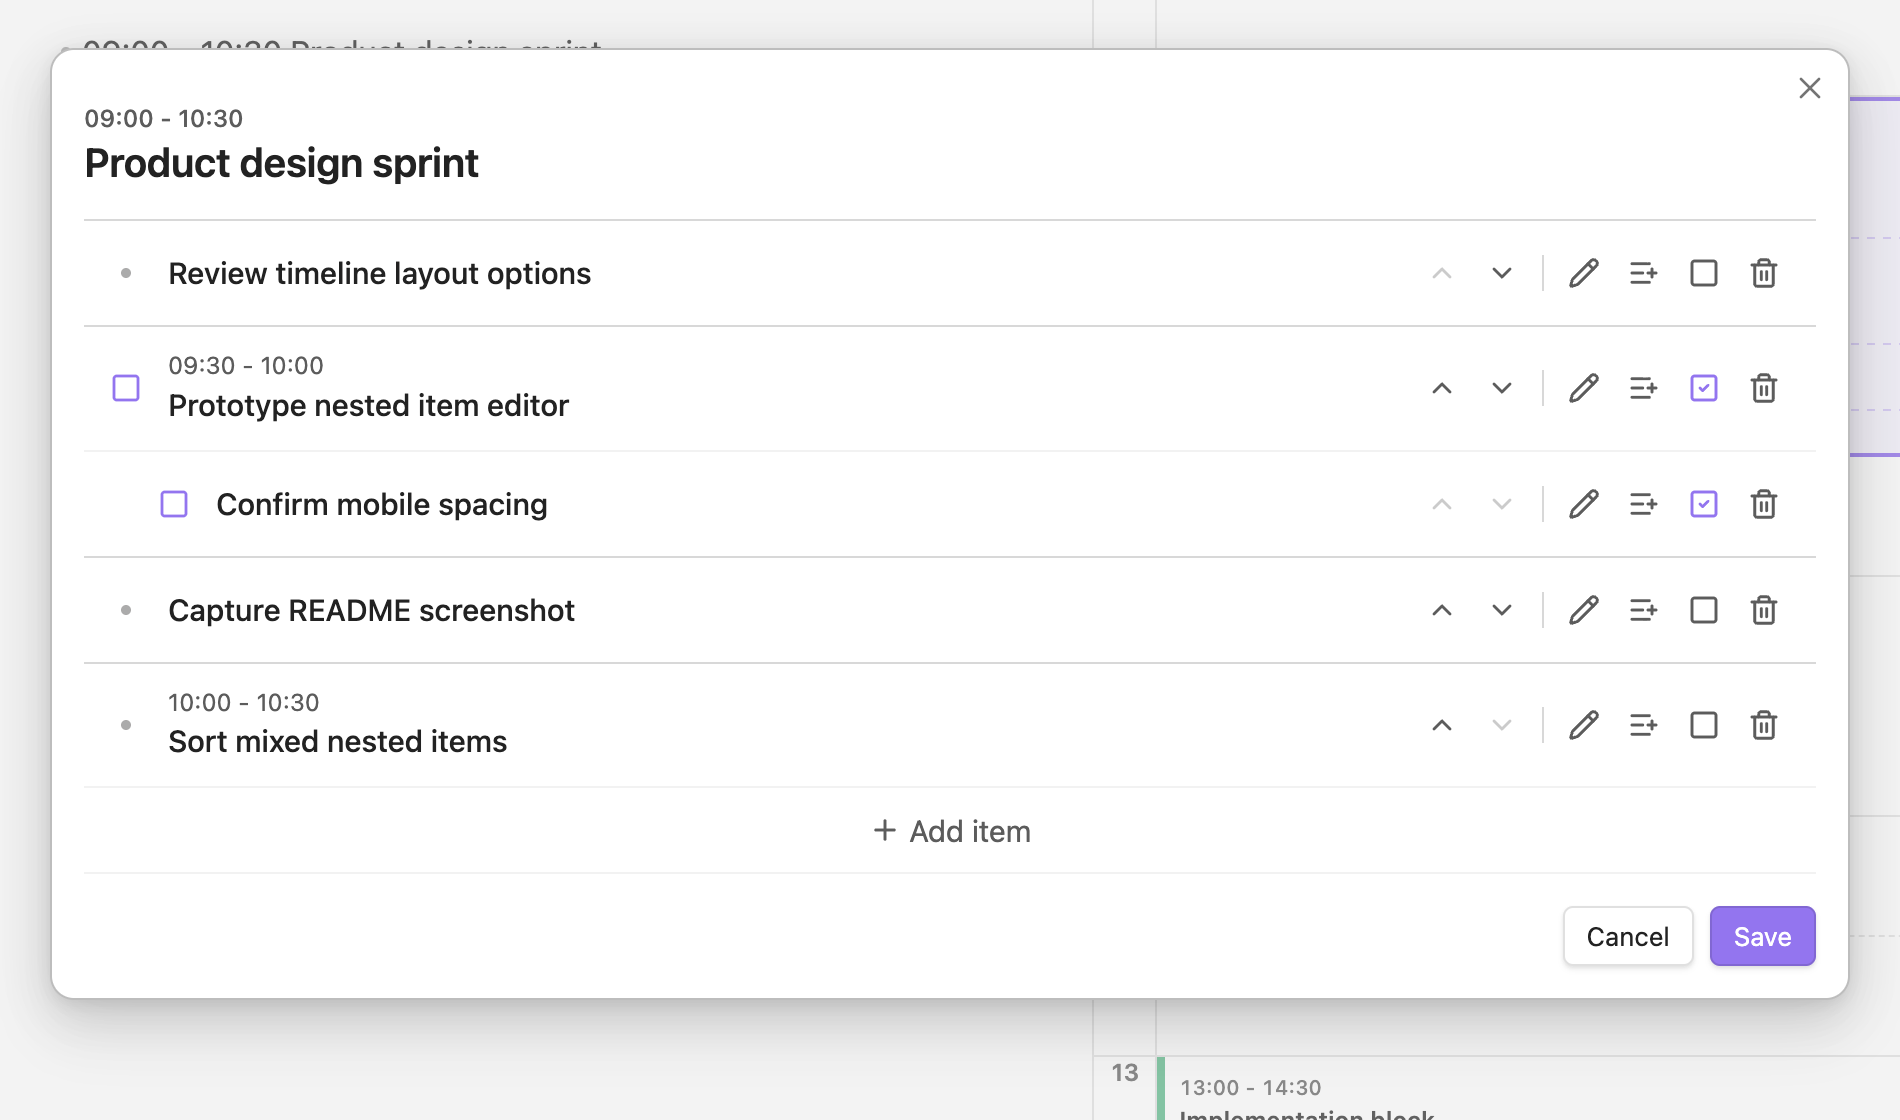
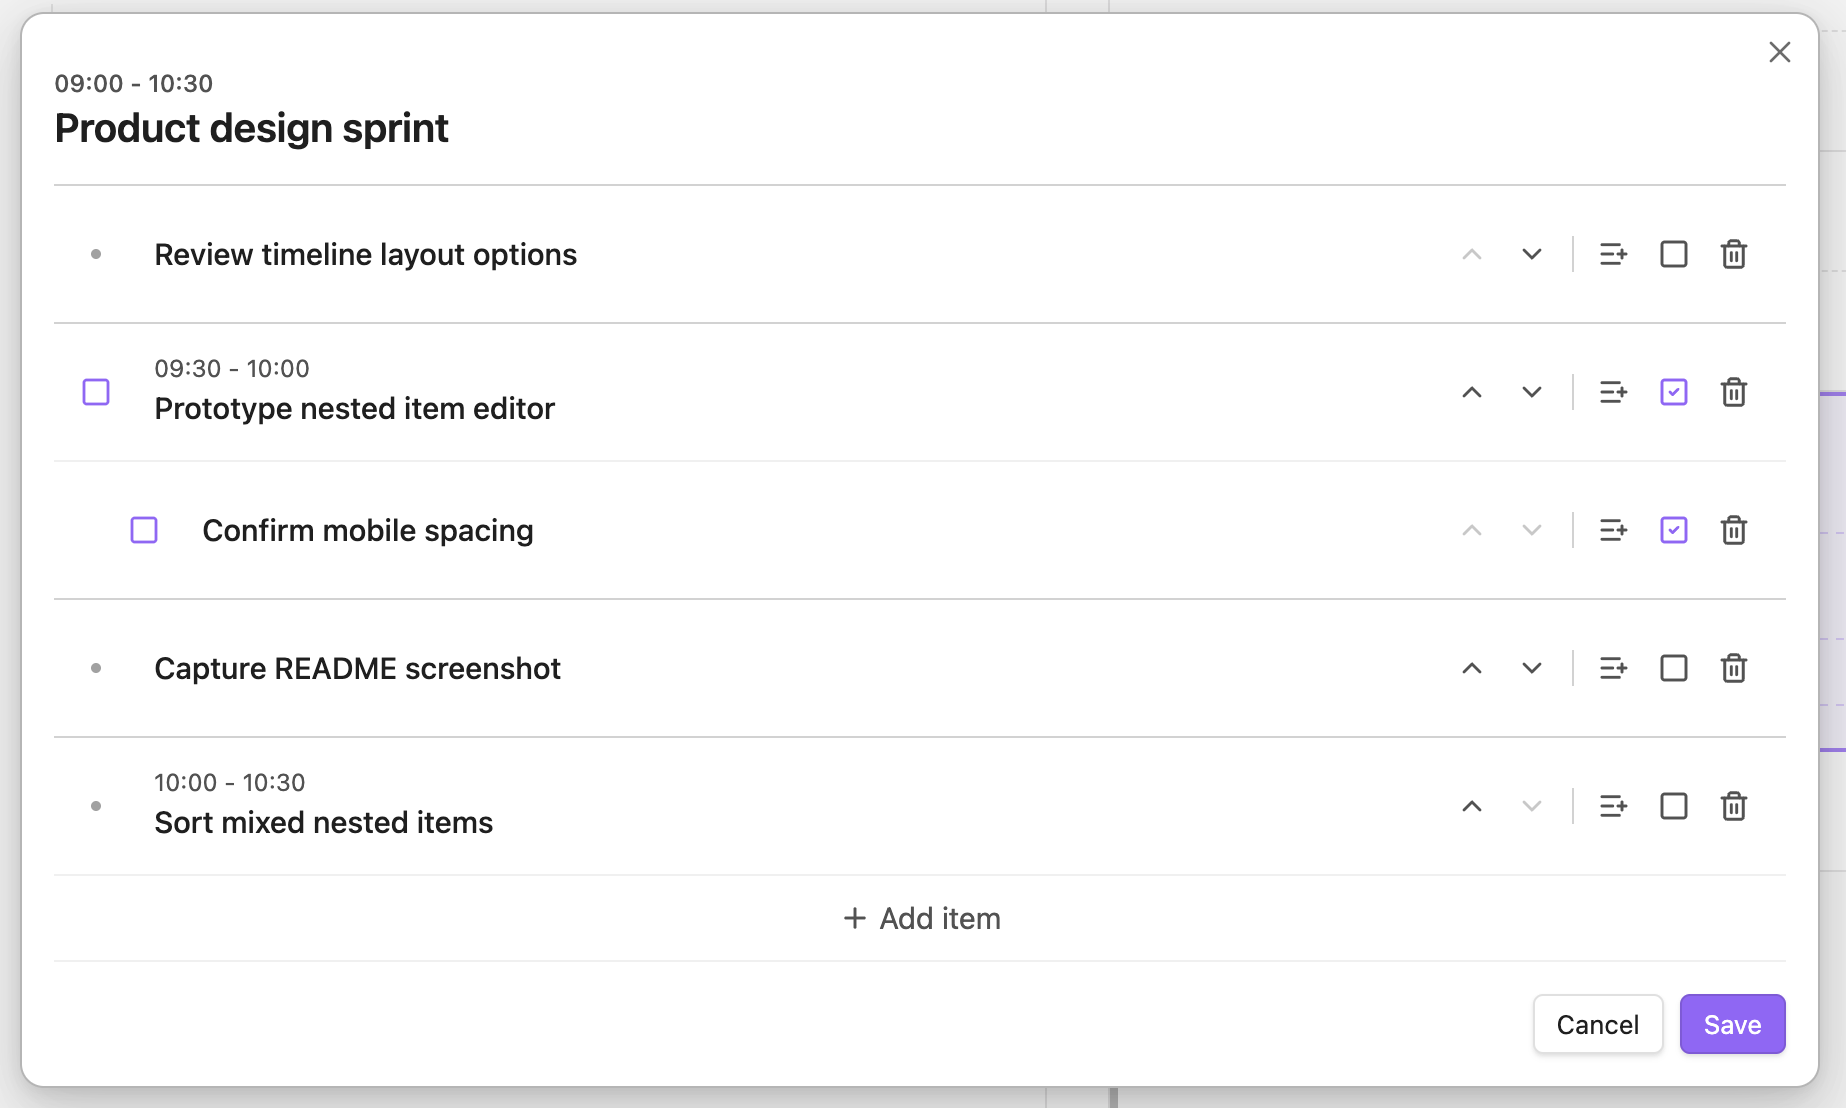
chore: prepare 0.2.3 release

diff --git a/README.md b/README.md
@@ -26,16 +26,24 @@ Right-click a timeline block to edit the parent item, reveal it in the source fi
 
 ### 3. Nested items can be managed without leaving the planner
 
-The nested item manager can add root items, add child items, edit text, move siblings, delete subtrees, convert bullets into checkbox tasks, and toggle completion. Saving replaces only the child subtree and keeps the parent planner line intact.
+The nested item manager can add root items, add child items, edit text by clicking the item body, move siblings, delete subtrees, convert bullets into checkbox tasks, and toggle completion. Saving replaces only the child subtree and keeps the parent planner line intact.
 
 <img src="./assets/nested-items-editor-demo.png" alt="Day Planner Enhanced nested items editor" width="100%">
 
 <p align="center"><em>Edit nested schedules as a small tree, then save the result back to the source markdown.</em></p>
 
-### 4. Smaller planning improvements
+### 4. Overnight plans continue across days
+
+Plans that cross midnight stay anchored to the day where they start while still appearing naturally in the next day's timeline. A `23:00 - 00:30` entry can remain in the start day's daily note instead of being split into separate notes.
+
+<img src="./assets/overnight-schedule-demo.png" alt="Overnight plan written in the start day's daily note and shown in the next day's timeline" width="100%">
+
+<p align="center"><em>Overnight plans continue into the next day's timeline while staying in the start day's note.</em></p>
+
+### 5. Smaller planning improvements
 
 - **Timed group sorting**: timed groups are ordered by time while untimed notes stay attached to the timed item they follow.
-- **Smoother timeline editing**: click-created blocks use the clicked time as their start, end-of-day moves save the visible `23:59` boundary, newly created blocks stay selected while you type, and auto-scroll waits while you are interacting with the planner.
+- **Smoother timeline editing**: click-created blocks use the clicked time as their start, move-block dragging follows the configured snap interval from the block's original position, end-of-day moves save the visible `23:59` boundary, newly created blocks stay selected while you type, and auto-scroll waits while you are interacting with the planner.
 - **Undo-friendly removal**: timeline block removal is immediate from the context menu and still uses the undoable edit path.
 - **Theme-aware UI polish**: nested dividers, dots, time ranges, mobile controls, and checkbox colors are tuned for scanning and Obsidian themes.
 - **Separate plugin identity**: installs as `day-planner-enhanced`, so it can live separately from the original Day Planner plugin.
@@ -56,13 +64,15 @@ Day Planner Enhanced is integrated with
   - [1. Nested schedules stay grouped in the timeline](#1-nested-schedules-stay-grouped-in-the-timeline)
   - [2. Timeline actions include nested editing and removal](#2-timeline-actions-include-nested-editing-and-removal)
   - [3. Nested items can be managed without leaving the planner](#3-nested-items-can-be-managed-without-leaving-the-planner)
-  - [4. Smaller planning improvements](#4-smaller-planning-improvements)
+  - [4. Overnight plans continue across days](#4-overnight-plans-continue-across-days)
+  - [5. Smaller planning improvements](#5-smaller-planning-improvements)
 - [Installation](#installation)
   - [Install from Obsidian](#install-from-obsidian)
   - [Manual installation fallback](#manual-installation-fallback)
   - [Updating](#updating)
 - [How to use it](#how-to-use-it)
   - [1. Showing events from your daily notes](#1-showing-events-from-your-daily-notes)
+    - [Overnight plans](#overnight-plans)
     - [Editing nested items](#editing-nested-items)
   - [2. tasks community plugin integration, showing events from other files in your vault](#2-tasks-community-plugin-integration-showing-events-from-other-files-in-your-vault)
   - [3. Showing internet calendars](#3-showing-internet-calendars)
@@ -159,9 +169,13 @@ Write your tasks in a daily note, and they show up on the timeline:
 - [ ] 11:00 - 12:30 Grab a brush and put a little make-up
 ```
 
+#### Overnight plans
+
+Plans that cross midnight can stay written in the start day's daily note. Day Planner Enhanced keeps the original `23:00 - 00:30` line in that note and continues the block into the next day's timeline.
+
 #### Editing nested items
 
-Right-click a timeline block and choose **Edit nested items...** to manage the child list under that planner item. The editor can add items, add child items, update text, move siblings up or down, delete nested subtrees, and switch bullets into checkbox tasks without changing the parent planner line.
+Right-click a timeline block and choose **Edit nested items...** to manage the child list under that planner item. The editor can add items, add child items, update text by clicking an item body, move siblings up or down, delete nested subtrees, and switch bullets into checkbox tasks without changing the parent planner line.
 
 ### 2. [tasks community plugin](obsidian://show-plugin?id=obsidian-tasks-plugin) integration, showing events from other files in your vault
 

diff --git a/CHANGELOG.md b/CHANGELOG.md
@@ -4,6 +4,24 @@ All notable changes to **Day Planner Enhanced** are documented here.
 
 This plugin is an independent fork of [Obsidian Day Planner](https://github.com/ivan-lednev/obsidian-day-planner), based on upstream **0.30.0**, and follows its own versioning.
 
+## 0.2.3
+
+### ✨ New features
+
+- Added cross-midnight timeline support for daily-note plans such as `23:00 - 00:30`, keeping the item anchored in the start day's note while continuing it into the next day's timeline.
+- Made nested item rows faster to edit: clicking the text area now enters inline edit mode, and the old pencil-only path was removed from the row controls.
+
+### 🐞 Fixed issues
+
+- Fixed move-block dragging so timeline blocks move relative to the grabbed block's original position instead of jumping to the pointer-derived time.
+- Fixed continued overnight blocks so only the valid resize controls are shown on the continued segment.
+- Fixed nested time parsing so untimed child text that merely contains an embedded clock, such as `SRT 371(15:36 departure)`, is not promoted into a timed nested schedule.
+- Fixed nested inline edit cancellation so pressing Escape exits the item edit state instead of closing the whole nested-item modal.
+
+### ✨ Other improvements
+
+- Refreshed README screenshots and highlighted overnight timeline behavior in the main feature overview.
+
 ## 0.2.2
 
 ### 🐞 Fixed issues